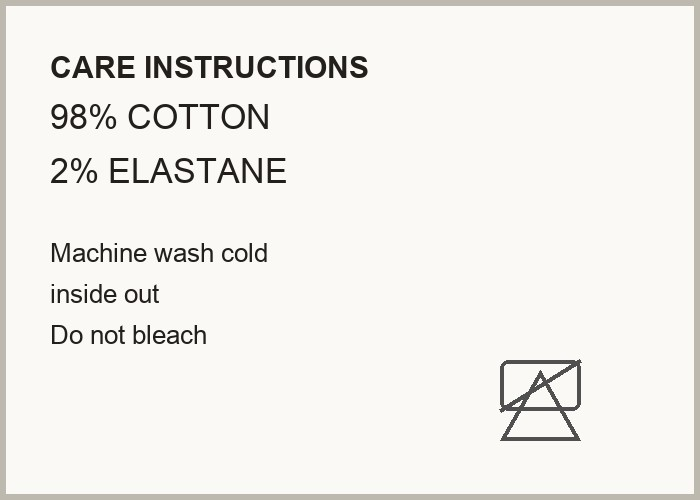
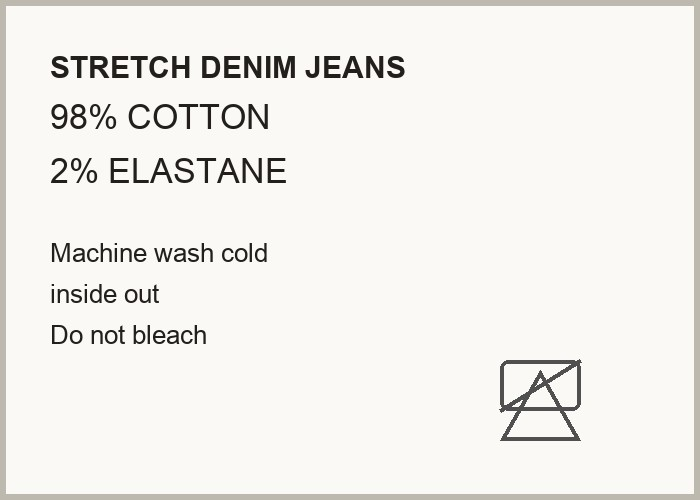
Demo scan photos that look like what they are; plain punctuation in answers
- Redraw the sample sweater (long sleeves, roll neck, cable knit, ribbing)
  and jeans (belt loops, fly, pockets, rivets, topstitching): the old
  sweater was a short-sleeved tee shape, so Gemini correctly called it a
  shirt. Live scans now return sweater_thick and jeans, with and without
  the care label, matching data/demo_photos/README.md
- System prompt: no em dashes in answers

Verified with style_check merged: 52 offline tests, 11/11 live evals.

Changed region(s): [[0.06, 0.09, 0.6, 0.18]]

diff --git a/data/demo_photos/make_demo_photos.py b/data/demo_photos/make_demo_photos.py
@@ -64,32 +64,79 @@ def draw_tshirt(draw: ImageDraw.ImageDraw, color, cx=450, top=260, w=440, h=560)
     draw.ellipse((cx - collar * 0.8, top - 6, cx + collar * 0.8, top + 28), outline=tuple(max(0, c - 60) for c in color), width=4)
 
 
-def draw_sweater(draw: ImageDraw.ImageDraw, color, cx=450, top=240, w=480, h=600):
-    draw_tshirt(draw, color, cx, top, w, h)
-    # Ribbed hem and cuffs: a few darker horizontal lines near the bottom.
+def draw_sweater(draw: ImageDraw.ImageDraw, color, cx=450, top=270, w=400, h=540):
+    """A long-sleeved roll-neck knit: long sleeves, ribbed neck, cuffs and hem, cable lines."""
     shade = tuple(max(0, c - 35) for c in color)
-    for y in range(top + h - 30, top + h, 6):
-        draw.line((cx - w * 0.42, y, cx + w * 0.42, y), fill=shade, width=2)
+    dark = tuple(max(0, c - 60) for c in color)
+    body_l, body_r = cx - w / 2, cx + w / 2
+    hem = top + h
+    # Long sleeves angled down and out, ending level with the hem.
+    for side in (-1, 1):
+        edge = body_r if side == 1 else body_l
+        sleeve = [(edge - side * 40, top + 10), (edge + side * 185, hem - 90),
+                  (edge + side * 110, hem - 40), (edge - side * 5, top + 200)]
+        draw.polygon(sleeve, fill=color, outline=dark)
+        # Ribbed cuff across the end of the sleeve.
+        for k in range(4):
+            t = 0.90 + k * 0.03
+            x1 = sleeve[0][0] + (sleeve[1][0] - sleeve[0][0]) * t
+            y1 = sleeve[0][1] + (sleeve[1][1] - sleeve[0][1]) * t
+            x2 = sleeve[3][0] + (sleeve[2][0] - sleeve[3][0]) * t
+            y2 = sleeve[3][1] + (sleeve[2][1] - sleeve[3][1]) * t
+            draw.line((x1, y1, x2, y2), fill=dark, width=3)
+    # Body.
+    draw.polygon([(body_l + 30, top), (body_r - 30, top), (body_r, top + 60), (body_r, hem), (body_l, hem), (body_l, top + 60)],
+                 fill=color, outline=dark)
+    # Roll neck with vertical ribs.
+    draw.rounded_rectangle((cx - 85, top - 60, cx + 85, top + 14), radius=14, fill=color, outline=dark, width=3)
+    for x in range(int(cx - 70), int(cx + 71), 14):
+        draw.line((x, top - 52, x, top + 6), fill=shade, width=3)
+    # Cable-knit columns down the body.
+    for x in range(int(body_l + 50), int(body_r - 30), 50):
+        for y in range(int(top + 40), int(hem - 70), 28):
+            draw.line((x, y, x + 12, y + 14), fill=shade, width=3)
+            draw.line((x + 12, y + 14, x, y + 28), fill=shade, width=3)
+    # Ribbed hem band.
+    draw.line((body_l, hem - 48, body_r, hem - 48), fill=dark, width=3)
+    for x in range(int(body_l + 10), int(body_r), 12):
+        draw.line((x, hem - 44, x, hem - 4), fill=shade, width=3)
 
 
-def draw_jeans(draw: ImageDraw.ImageDraw, color, cx=450, top=220, w=380, h=680):
+def draw_jeans(draw: ImageDraw.ImageDraw, color, cx=450, top=200, w=380, h=720):
+    """Five-pocket denim jeans seen from the front: belt loops, fly, curved pockets, rivets, orange topstitching."""
     waist_l, waist_r = cx - w / 2, cx + w / 2
-    hip_y = top + h * 0.22
+    hip_y = top + h * 0.26
     ankle_y = top + h
-    gap = w * 0.08  # inseam gap between the legs
     shade = tuple(max(0, c - 40) for c in color)
+    light = tuple(min(255, c + 22) for c in color)
+    stitch = (214, 150, 66)  # the orange thread jeans are known for
 
-    # Waistband/hip block, full width.
-    draw.polygon([(waist_l, top), (waist_r, top), (waist_r + 10, hip_y), (waist_l - 10, hip_y)],
-                 fill=color, outline=shade)
-    # Two straight leg panels hanging from the hip block down to the ankle hem.
-    draw.rectangle((waist_l - 10, hip_y, cx - gap / 2, ankle_y), fill=color, outline=shade)
-    draw.rectangle((cx + gap / 2, hip_y, waist_r + 10, ankle_y), fill=color, outline=shade)
-
-    # Topstitching and a back pocket, in a lighter thread color.
-    stitch = (235, 215, 120)
-    draw.line((waist_l, top + 20, waist_r, top + 20), fill=stitch, width=3)
-    draw.rectangle((cx + gap / 2 + 20, hip_y + 30, cx + gap / 2 + 100, hip_y + 110), outline=stitch, width=3)
+    # Tapered legs joined at the crotch.
+    draw.polygon([(waist_l, top), (waist_r, top), (waist_r + 14, hip_y), (cx + w * 0.42, ankle_y),
+                  (cx + w * 0.10, ankle_y), (cx, hip_y + 60), (cx - w * 0.10, ankle_y),
+                  (cx - w * 0.42, ankle_y), (waist_l - 14, hip_y)], fill=color, outline=shade)
+    # Faded denim wash down the thighs.
+    for side in (-1, 1):
+        x = cx + side * w * 0.24
+        draw.ellipse((x - 34, hip_y + 40, x + 34, hip_y + 330), fill=light)
+    # Waistband, belt loops and button.
+    draw.rectangle((waist_l, top, waist_r, top + 34), outline=shade, width=3)
+    draw.line((waist_l, top + 30, waist_r, top + 30), fill=stitch, width=2)
+    for x in (waist_l + 40, cx - 70, cx + 70, waist_r - 40):
+        draw.rectangle((x - 7, top - 6, x + 7, top + 40), fill=color, outline=shade, width=2)
+    draw.ellipse((cx - 11, top + 6, cx + 11, top + 28), fill=(170, 150, 110), outline=(110, 95, 70), width=2)
+    # Fly and the two curved front pockets with rivets.
+    draw.line((cx, top + 34, cx, hip_y + 60), fill=shade, width=3)
+    draw.arc((cx - 2, top + 34, cx + 70, hip_y + 50), 20, 100, fill=stitch, width=3)
+    for side in (-1, 1):
+        x_out = waist_l if side == -1 else waist_r
+        box = (min(x_out, x_out - side * 150), top - 50, max(x_out, x_out - side * 150), top + 150)
+        draw.arc(box, 0 if side == -1 else 90, 90 if side == -1 else 180, fill=stitch, width=4)
+        draw.ellipse((x_out - side * 22 - 6, top + 44, x_out - side * 22 + 6, top + 56), fill=(184, 115, 51))
+    # Orange topstitching down the outer seams and at the hems.
+    for side in (-1, 1):
+        draw.line((cx + side * (w / 2 + 8), hip_y, cx + side * w * 0.40, ankle_y - 4), fill=stitch, width=2)
+        draw.line((cx + side * w * 0.11, ankle_y - 14, cx + side * w * 0.41, ankle_y - 14), fill=stitch, width=2)
 
 
 def label_card(lines: list[tuple[str, int, bool]], size=(700, 500)) -> Image.Image:
@@ -115,7 +162,7 @@ GARMENTS = [
         "draw": draw_sweater,
         "color": (124, 38, 38),  # red wool sweater
         "label": [
-            ("CARE INSTRUCTIONS", 30, True),
+            ("KNIT SWEATER", 30, True),
             ("70% WOOL", 34, False),
             ("30% POLYAMIDE", 34, False),
             ("", 20, False),
@@ -142,7 +189,7 @@ GARMENTS = [
         "draw": draw_jeans,
         "color": (54, 71, 106),  # indigo jeans
         "label": [
-            ("CARE INSTRUCTIONS", 30, True),
+            ("STRETCH DENIM JEANS", 30, True),
             ("98% COTTON", 34, False),
             ("2% ELASTANE", 34, False),
             ("", 20, False),

diff --git a/app.py b/app.py
@@ -48,7 +48,7 @@ How to answer:
   Name every item in it. Mention option 2 or 3 only if the user asks for alternatives, by number.
 - Lead with the outfit in one line, then 2-4 short bullets: why it's warm enough, what to take off
   indoors, and any rain/wind warnings. Mention clo only briefly (e.g. "about 1.8 clo").
-- Refer to clothes by name, not id.
+- Refer to clothes by name, not id. Use plain punctuation: commas and periods, no em dashes.
 - If a tool returns an error, follow its instructions or tell the user plainly what to do."""
 
 # --- The Harness ---
